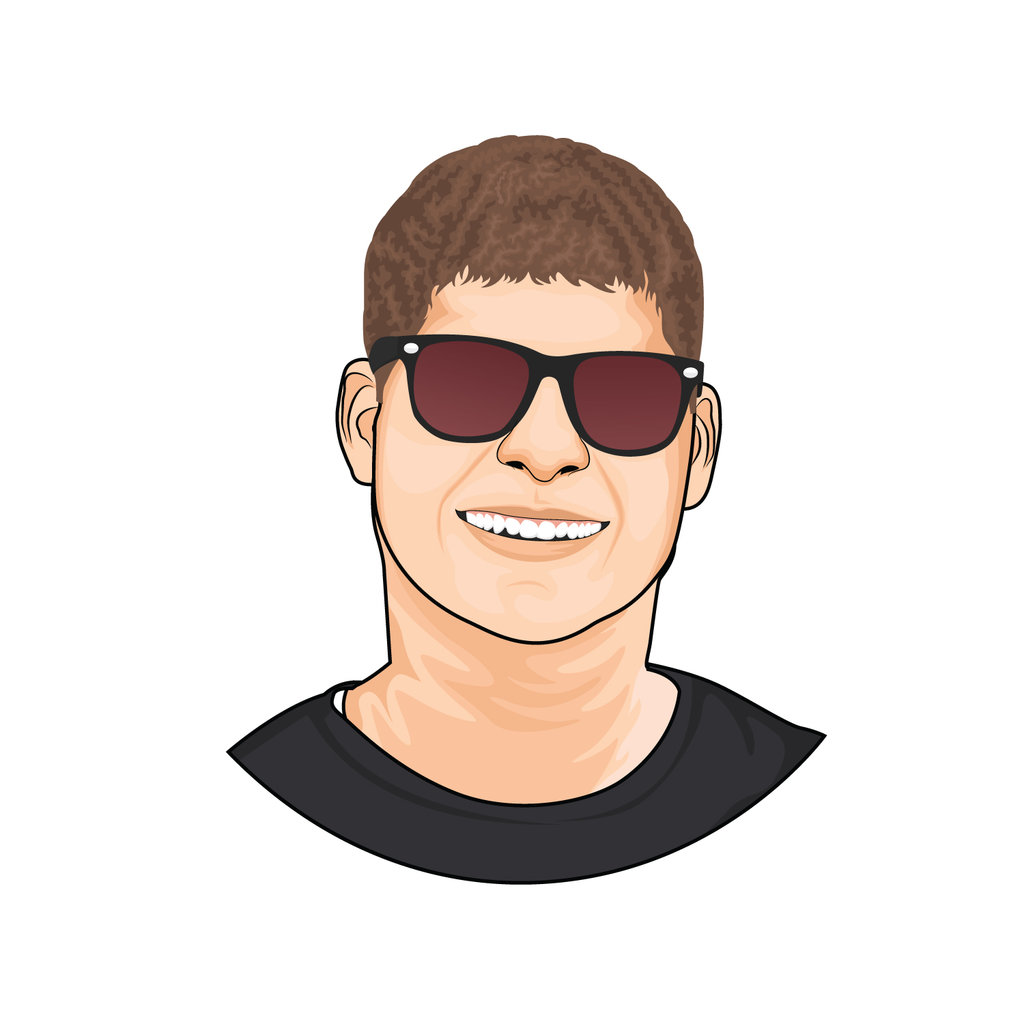
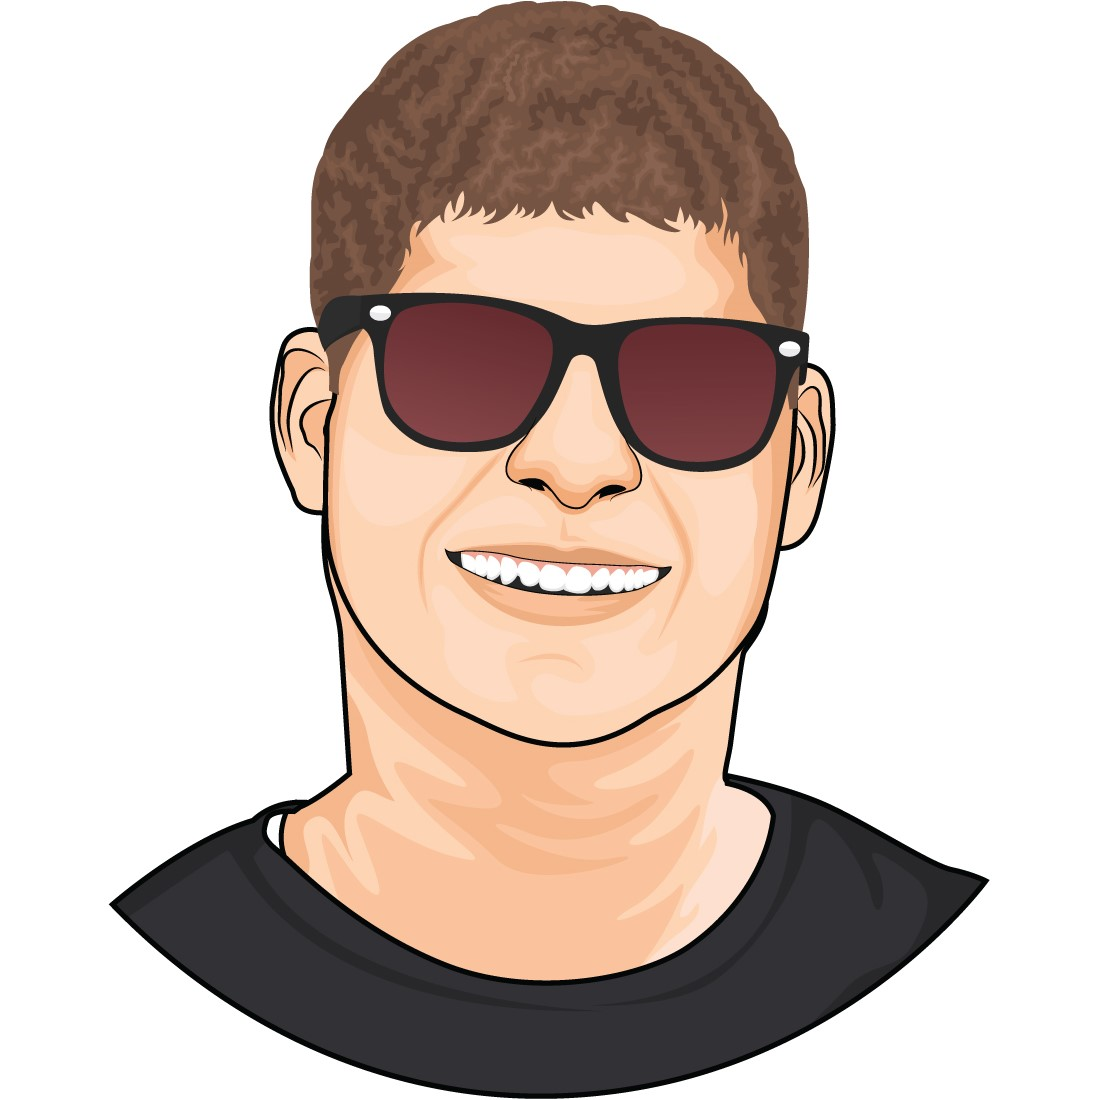
change header image size and outside border.

diff --git a/src/components/HeaderImage/Wrapper.js b/src/components/HeaderImage/Wrapper.js
@@ -1,7 +1,7 @@
 import styled from 'styled-components';
 
 const Wrapper = styled.div`
-  border: 5px solid #3598db;
+  border: 5px solid #00a86b;
   border-radius: 50%;
   height: 150px;
   margin: 0 auto 15px auto;
